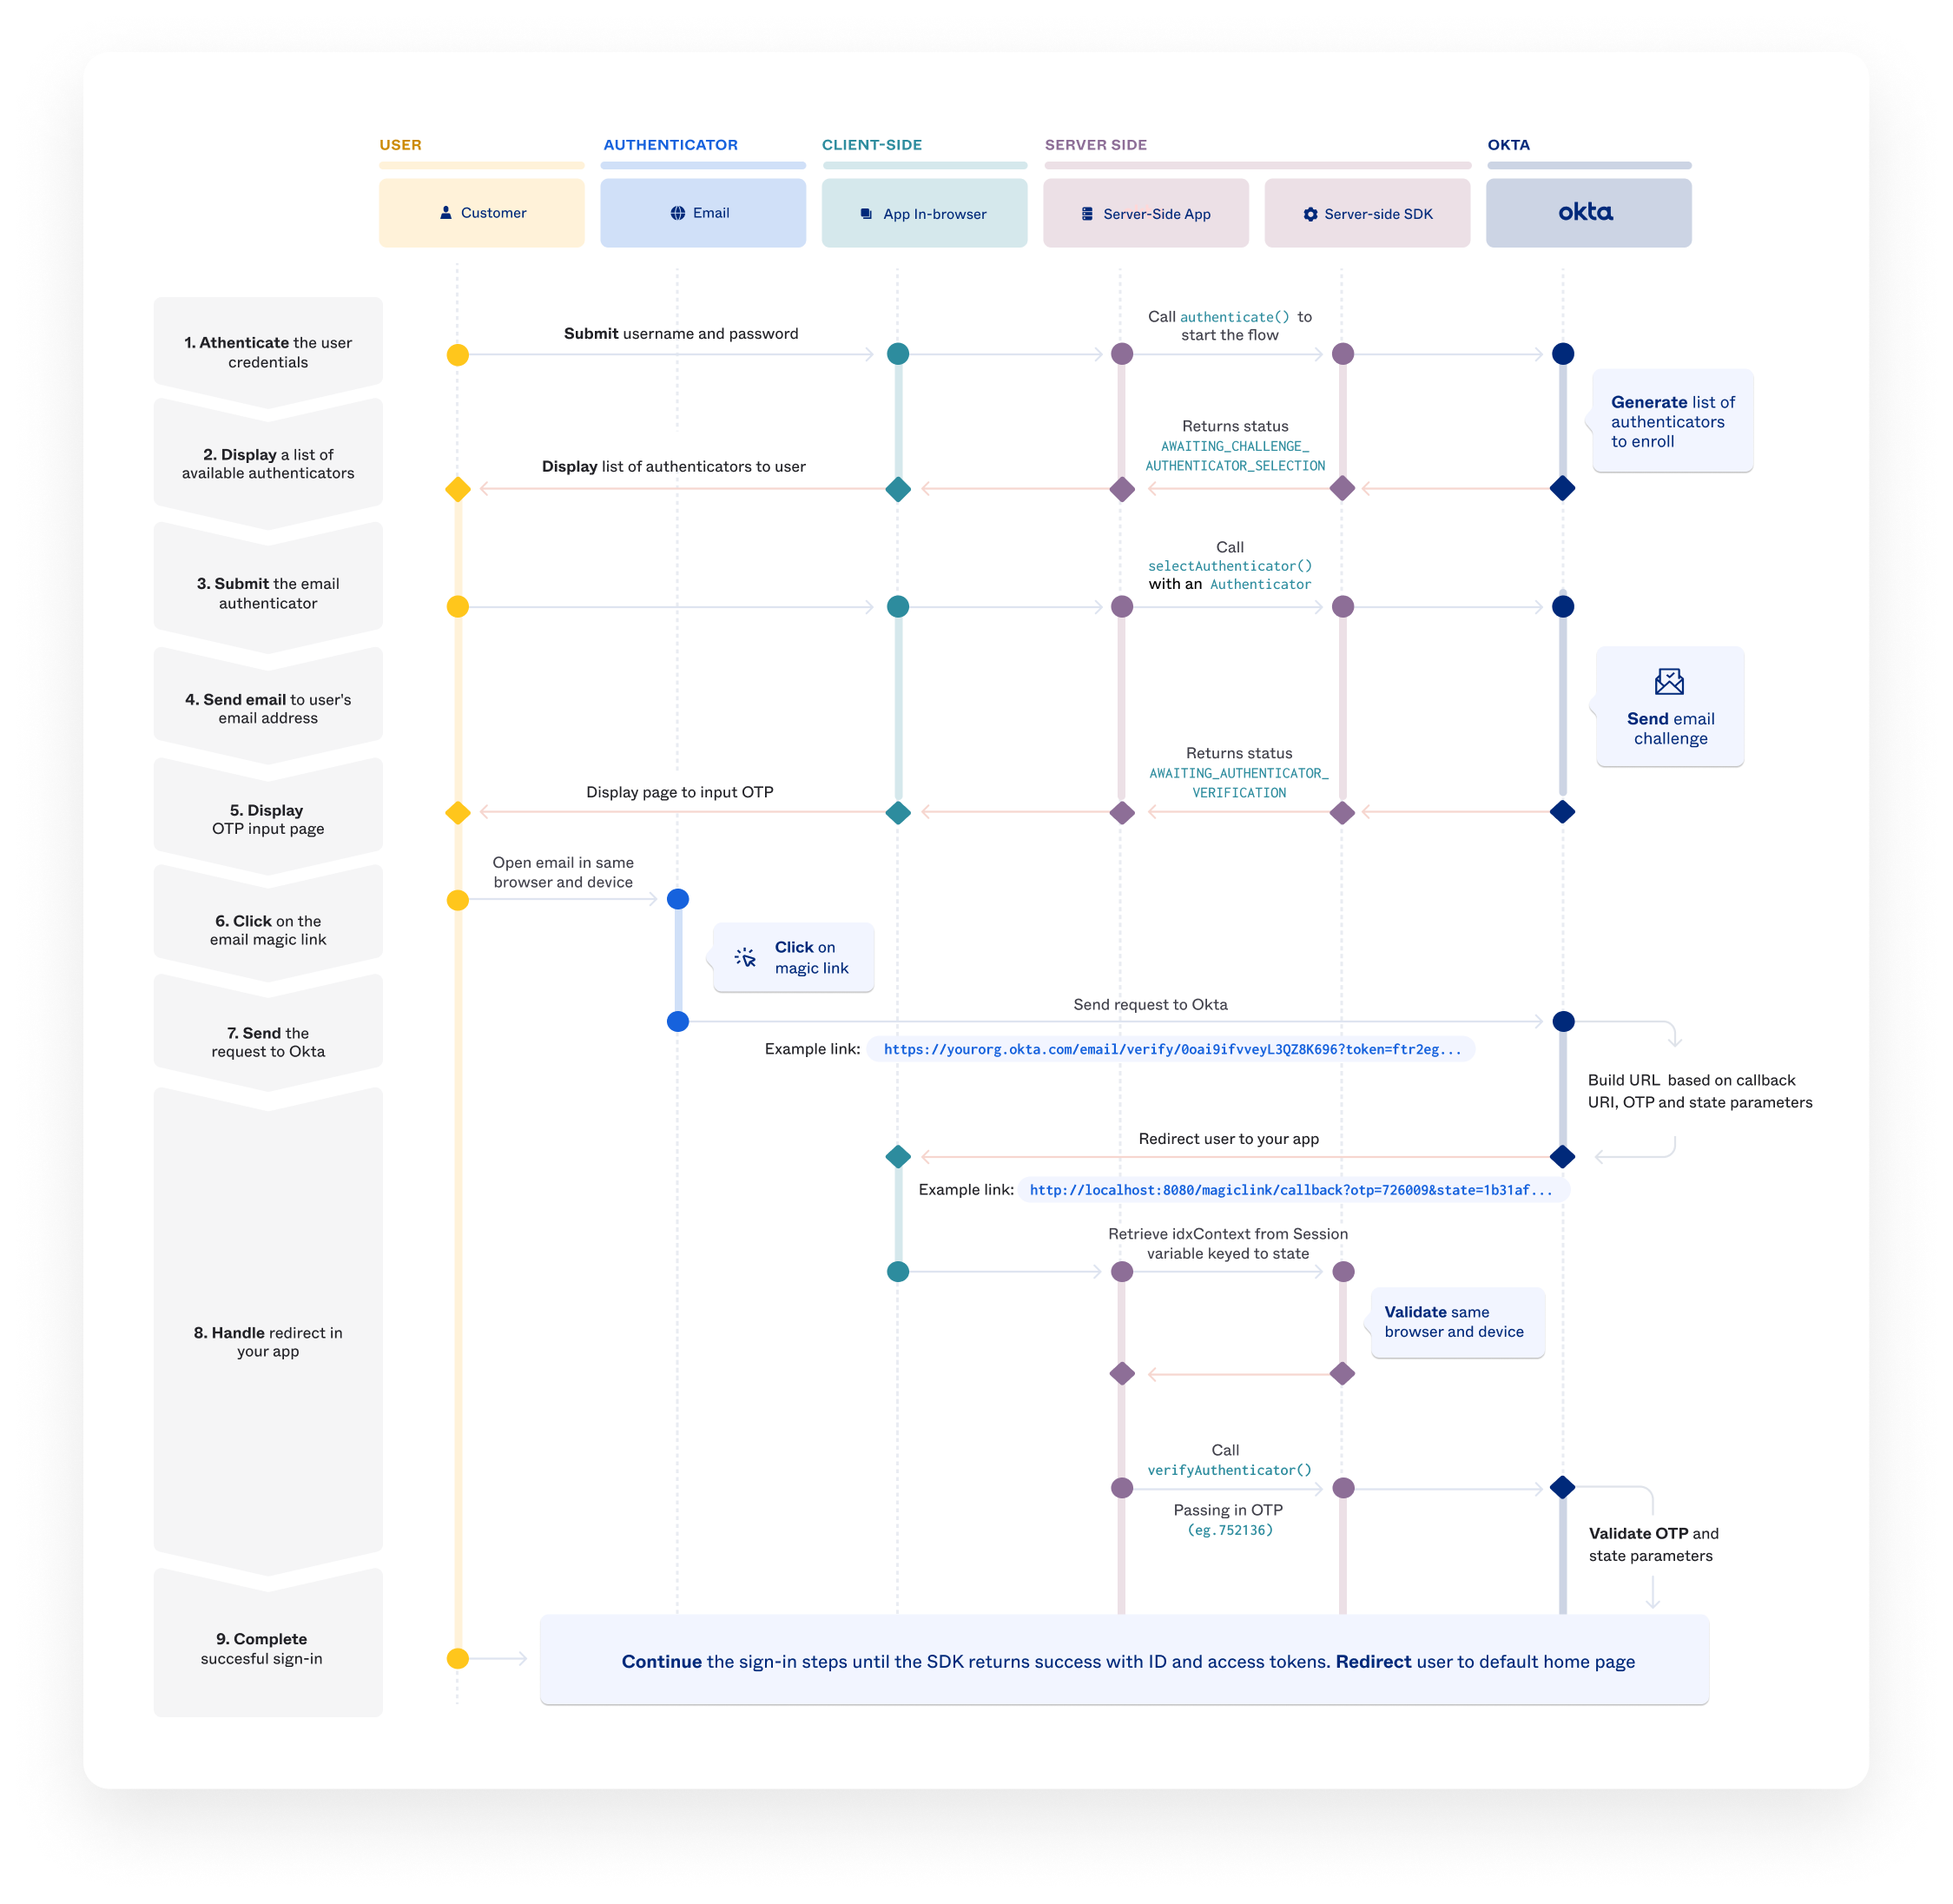
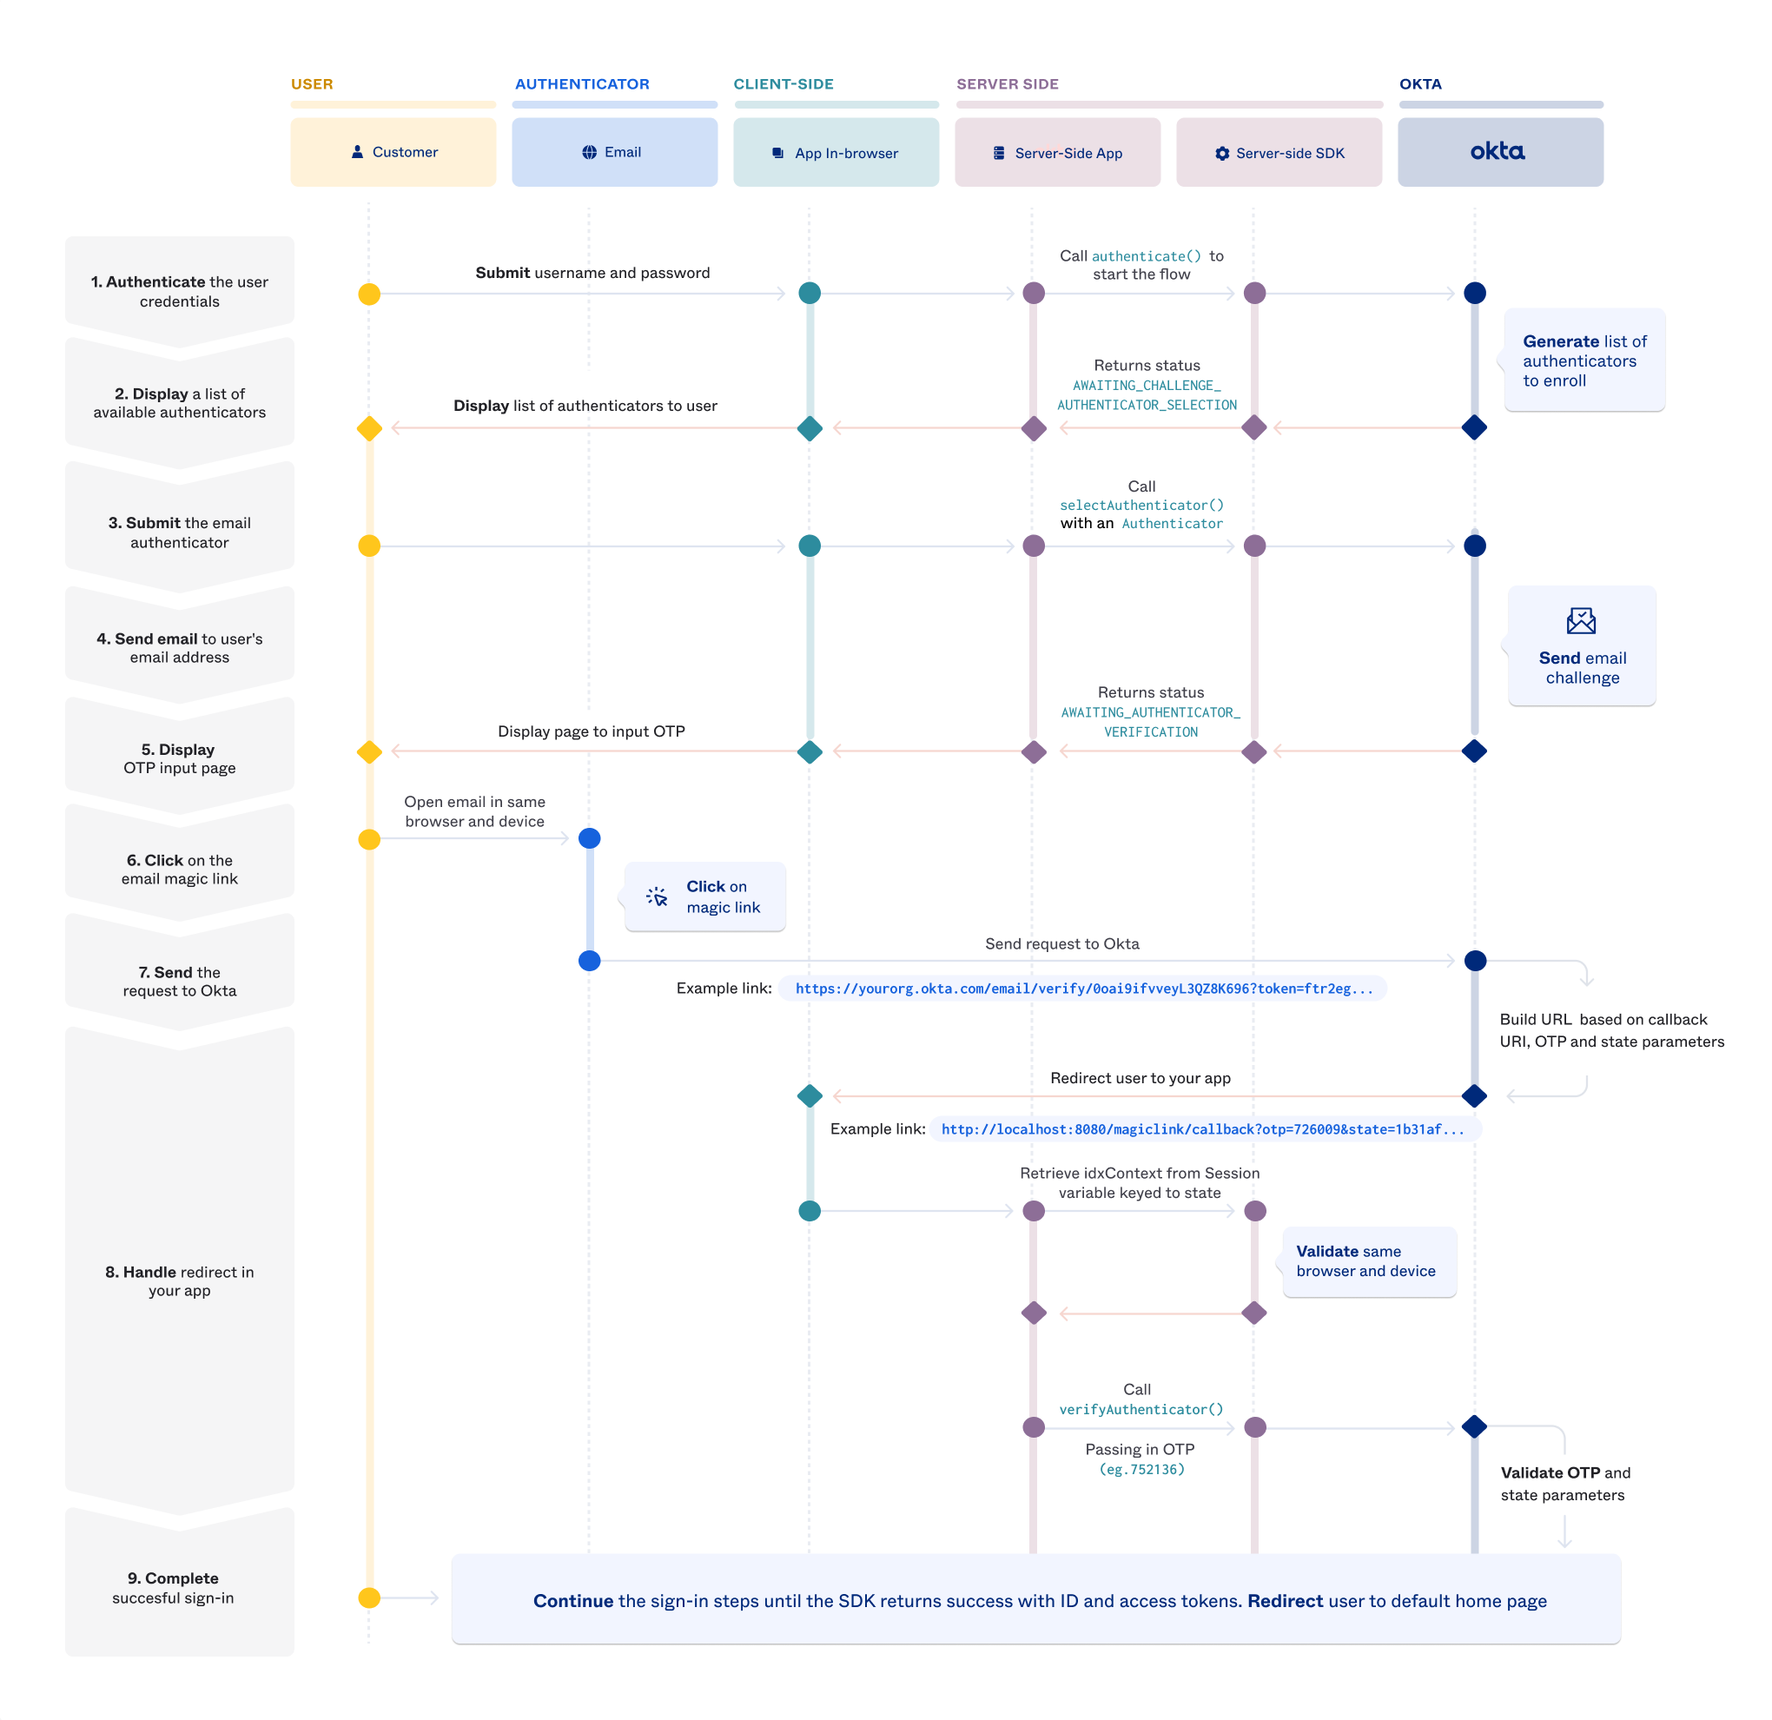
Corrections to java email authenticator guides

diff --git a/packages/@okta/vuepress-site/docs/guides/authenticators-okta-email/main/java/integratechallengemagiclink.md b/packages/@okta/vuepress-site/docs/guides/authenticators-okta-email/main/java/integratechallengemagiclink.md
@@ -13,10 +13,12 @@ AuthenticationResponse authenticationResponse = idxAuthenticationWrapper.begin(
 proceedContext = authenticationResponse.getProceedContext();
 
 // set the user's credentials
-AuthenticationOptions authenticationOptions = new AuthenticationOptions(username, password);
+AuthenticationOptions authenticationOptions =
+   new AuthenticationOptions(username, password);
 
 // submit username/password
-authenticationResponse = idxAuthenticationWrapper.authenticate(authenticationOptions, proceedContext);
+authenticationResponse =
+   idxAuthenticationWrapper.authenticate(authenticationOptions, proceedContext);
 ```
 
 Query the `AuthenticationStatus` property of `AuthenticationResponse` returned by `authenticate()` to discover the current status of the authentication process.
@@ -26,7 +28,8 @@ Query the `AuthenticationStatus` property of `AuthenticationResponse` returned b
 // make sure it is persisted for web applications
 proceedContext = authenticationResponse.getProceedContext();
 // get the authenticationStatus
-AuthenticationStatus authenticationStatus = authenticationResponse.getAuthenticationStatus();
+AuthenticationStatus authenticationStatus = 
+   authenticationResponse.getAuthenticationStatus();
 switch (authenticationStatus) {
     case SUCCESS:
         … your code …
@@ -46,11 +49,13 @@ You can find the names of the available authenticators for enrollment or challen
 
 ```java
 case AWAITING_AUTHENTICATOR_SELECTION:
-    List<Authenticator> authenticators = authenticationResponse.getAuthenticators();
+    List<Authenticator> authenticators = 
+      authenticationResponse.getAuthenticators();
 
     // show authenticators to user
     IntStream.range(0, authenticators.size()).forEach(index -> {
-        console.writer().println(index + " - " + authenticators.get(index).getLabel());
+        console.writer().println(
+            index + " - " + authenticators.get(index).getLabel());
     });
 
     // prompt user to select a factor
@@ -58,7 +63,8 @@ case AWAITING_AUTHENTICATOR_SELECTION:
     Authenticator authenticator = authenticators.get(Integer.parseInt(selection));
 
     // tell Okta which Authenticator is used
-    return idxAuthenticationWrapper.selectAuthenticator(proceedContext,  authenticator);
+    return idxAuthenticationWrapper.selectAuthenticator(
+      proceedContext, authenticator);
 ```
 
 When the email authenticator is selected, an email will be sent to the user.
@@ -71,26 +77,33 @@ The user needs to leave your application and check their email. While they are d
 
 ```java
 case AWAITING_AUTHENTICATOR_VERIFICATION:
-    String factorType = authenticationResponse.getCurrentAuthenticatorEnrollment().getValue().getType();
+    String factorType = authenticationResponse
+      .getCurrentAuthenticatorEnrollment().getValue().getType();
 
     if ("email".equals(factorType)) {
       // Tell the use to check their email
       console.writer().println("Check your email...");
 
-      // The user could enter a TOTP code from the email address, or you can poll
-      String code = console.readLine("TOTP Code [press enter to continue polling]: ");
+      // The user could enter a TOTP code from the email address
+      // or you can poll
+      String code = console.readLine(
+         "TOTP Code [press enter to continue polling]: ");
       if (!Strings.isEmpty(code)) {
-        return idxAuthenticationWrapper.verifyAuthenticator(proceedContext, new VerifyAuthenticatorOptions(code));
+        return idxAuthenticationWrapper.verifyAuthenticator(
+            proceedContext, new VerifyAuthenticatorOptions(code));
       }
 
-      // poll the server looking for updates, the emails also contain a TOTP code,
-      // you could implement both polling and the ability to enter a code.
-      sleep(Integer.parseInt(authenticationResponse.getCurrentAuthenticatorEnrollment().getValue().getPoll().getRefresh()));
+      // Poll the server looking for updates.
+      // The emails also contain a TOTP code.
+      // You could implement both polling and the ability to enter a code.
+      sleep(Integer.parseInt(authenticationResponse
+         .getCurrentAuthenticatorEnrollment().getValue().getPoll().getRefresh()));
 
       return idxAuthenticationWrapper.poll(proceedContext);
     }
 
-    throw new IllegalStateException("Unsupported factor type selected: " + factorType);
+    throw new IllegalStateException(
+      "Unsupported factor type selected: " + factorType);
 ```
 
 ### 6. User clicks the email magic link

diff --git a/packages/@okta/vuepress-site/docs/guides/authenticators-okta-email/main/java/integrateenrollotp.md b/packages/@okta/vuepress-site/docs/guides/authenticators-okta-email/main/java/integrateenrollotp.md
@@ -15,16 +15,16 @@ When the user selects the Email Authenticator, call `selectAuthenticator()`, sim
 return idxAuthenticationWrapper.selectAuthenticator(proceedContext, authenticator);
 ```
 
-If the call is successful, Okta sends an enrollment email to the user that contains the OTP. The server returns a status of `AWAITING_AUTHENTICATOR_ENROLLMENT` to indicate it is waiting for the user to check their email and either click the magic link in it or enter the OTP.
+If the call is successful, Okta sends an enrollment email to the user that contains the OTP. The server returns a status of `AWAITING_AUTHENTICATOR_VERIFICATION` to indicate it is waiting for the user to check their email and either click the magic link in it or enter the OTP.
 
 ```java
-case AWAITING_AUTHENTICATOR_ENROLLMENT:
+case AWAITING_AUTHENTICATOR_VERIFICATION:
     console.writer().println("Check email for activation instructions");
     String code = console.readLine("Enter TOTP code from email: ");
     return idxAuthenticationWrapper.verifyAuthenticator(proceedContext, new VerifyAuthenticatorOptions(code));
 ```
 
-### 6. Open email and copy OTP
+### 6 - 7. Open email and copy OTP
 
 Next, the user opens the email and copies the OTP. The following screenshot shows the OTP in an email generated from the **Email Factor Verification** template.
 

diff --git a/packages/@okta/vuepress-site/docs/guides/authenticators-google-authenticator/main/java/enrollmentintegrationsteps.md b/packages/@okta/vuepress-site/docs/guides/authenticators-google-authenticator/main/java/enrollmentintegrationsteps.md
@@ -4,6 +4,7 @@ Build a sign-in page that captures the user's name and password.
 <div class="common-image-format bordered-image">
 ![Basic sign-in dialog](/img/authenticators/java-authenticators-signinform.png)
 </div>
+
 ### 2: Authenticate the user credentials
 
 Add the following code to initiate the sign-in flow using the credentials collected from the user.
@@ -48,7 +49,7 @@ switch (authenticationStatus) {
 }
 ```
 
-### 4: Select a possible authenticator factor
+### 4: Display a list of possible authenticators
 
 You need to handle two other authenticator status values in addition to `SUCCESS` and `PASSWORD_EXPIRED` for an Okta org that is configured using this guide:
 
@@ -58,7 +59,6 @@ You need to handle two other authenticator status values in addition to `SUCCESS
 The names of the available authenticators are found in the `authenticators` collection of the `AuthenticationResponse`.
 
 Display a selector with the list of available authenticators:
-
 
 ```java
 case AWAITING_AUTHENTICATOR_ENROLLMENT_SELECTION:
@@ -99,4 +99,3 @@ Prompt the user for a OTP code, and continue the authentication flow:
 authenticationResponse = idxAuthenticationWrapper
     .verifyAuthenticator(proceedContext, new VerifyAuthenticatorOptions(code));
 ```
-

diff --git a/packages/@okta/vuepress-site/docs/guides/authenticators-okta-email/main/java/integratediffbrowserdevice.md b/packages/@okta/vuepress-site/docs/guides/authenticators-okta-email/main/java/integratediffbrowserdevice.md
@@ -1,6 +1,6 @@
-### 1 - 7. Sign in and get magic link email
+### 1 - 9. Sign in and get magic link email
 
-First, the user attempts to sign in, initiating the email challenge flow. Next, they click the magic link that redirects them back to your app. These steps are identical to steps 1 - 7 in [Integrate email challenge with magic links](#integrate-email-challenge-with-magic-links).
+First, the user attempts to sign in, initiating the email challenge flow. Next, they click the magic link that redirects them back to your app. These steps are identical to steps 1 - 9 in [Integrate email challenge with magic links](#integrate-email-challenge-with-magic-links).
 
 ### 10. Handle the magic link redirect in your app
 
@@ -14,7 +14,8 @@ if (idxContext != null) {
     // Process magic link
 
     // get `otp` parameter from request
-    return idxAuthenticationWrapper.verifyAuthenticator(proceedContext, new VerifyAuthenticatorOptions(code));
+    return idxAuthenticationWrapper.verifyAuthenticator(
+         proceedContext, new VerifyAuthenticatorOptions(code));
 }
 ```
 

diff --git a/packages/@okta/vuepress-site/docs/guides/authenticators-google-authenticator/main/java/challengeintegrationsteps.md b/packages/@okta/vuepress-site/docs/guides/authenticators-google-authenticator/main/java/challengeintegrationsteps.md
@@ -38,7 +38,7 @@ case AWAITING_AUTHENTICATOR_VERIFICATION:
         .verifyAuthenticator(proceedContext, new VerifyAuthenticatorOptions(code));
 ```
 
-### 7: Handle the Success status.
+### 7: Handle the Success status
 
 After successful user authentication, Identity Engine returns an `AuthenticationStatus` of `SUCCESS`. Call `getTokenResponse()` to retrieve their ID and access tokens.
 

diff --git a/packages/@okta/vuepress-site/docs/guides/authenticators-okta-email/main/java/integrateenrollotpsummary.md b/packages/@okta/vuepress-site/docs/guides/authenticators-okta-email/main/java/integrateenrollotpsummary.md
@@ -3,6 +3,6 @@
 
 <div class="common-image-format">
 
-![Sequence diagram for Okta email OTP enrollment](/img/authenticators/dotnet-authenticators-email-enrollment-with-otp-flow-diagram.png)
+![Sequence diagram for Okta email OTP enrollment](/img/authenticators/java-authenticators-email-enrollment-with-otp-flow-diagram.png)
 
 </div>
